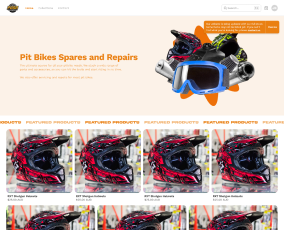
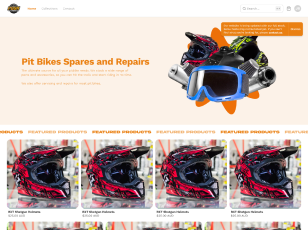
add: halftone effect on 'ProjectCard' image

diff --git a/src/components/project-card.tsx b/src/components/project-card.tsx
@@ -14,18 +14,24 @@ export function ProjectCard(props: ProjectCardProps) {
 			href={props.href}
 			rel="noreferrer"
 		>
-			<div className="relative min-h-[230px] w-full min-w-[284px] overflow-hidden rounded-[10px]">
+			<div className="relative w-full overflow-hidden rounded-lg">
 				<span className="fade-overlay">
-					<Image
-						className="rendering-pixelated w-full object-fill transition-all duration-200 ease-in-out [filter:grayscale(1)] group-hover:[filter:grayscale(0)]"
-						src={props.src}
-						alt={props.title}
-						width={284}
-						height={230}
-					/>
+					<span className="halftone">
+						<Image
+							className="rendering-pixelated w-full object-fill transition-all duration-200 ease-in-out [filter:grayscale(1)] group-hover:[filter:grayscale(0)]"
+							src={props.src}
+							alt={props.title}
+							width={308}
+							height={230}
+						/>
+					</span>
 				</span>
 
-				<div className="absolute bottom-0 left-0 z-10 w-full p-4 duration-200 ease-in-out will-change-transform group-hover:-translate-y-[2px]">
+				<div
+					className={
+						'absolute bottom-0 left-0 z-10 w-full p-4 duration-200 ease-in-out will-change-transform group-hover:-translate-y-[2px]'
+					}
+				>
 					<p className="text-sm font-medium leading-6 text-neutral-50">{props.title}</p>
 					<p className="text-sm font-normal leading-[9px] text-neutral-300">{props.description}</p>
 				</div>

diff --git a/src/app/page.tsx b/src/app/page.tsx
@@ -60,7 +60,7 @@ export default function Home() {
 							<Section.Title>projects</Section.Title>
 							<Section.Link href="/projects">see more -&gt;</Section.Link>
 						</Section.Header>
-						<Section.Body className="grid grid-cols-1 gap-4 sm:grid-cols-2">
+						<Section.Body className="grid grid-cols-1 gap-2 sm:grid-cols-2">
 							<ProjectCard
 								src="/images/projects/pbsrmoto.png"
 								title="Pit Bikes Spares &amp; Repairs"
@@ -68,15 +68,15 @@ export default function Home() {
 								href="/projects/pbsrmoto"
 							/>
 							<ProjectCard
-								src="/images/projects/pbsrmoto.png"
-								title="Pit Bikes Spares &amp; Repairs"
-								description="ecommerce store"
-								href="/projects/pbsrmoto"
+								src="/images/projects/spotify-widget.png"
+								title="Spotify Widget"
+								description="lightweight widget for controlling Spotify"
+								href="/projects/spotify-widget"
 							/>
 							<ProjectCard
-								src="/images/projects/pbsrmoto.png"
-								title="Pit Bikes Spares &amp; Repairs"
-								description="ecommerce store"
+								src="/images/projects/timeseed.png"
+								title="TimeSeed"
+								description="tiny pomodoro app"
 								href="/projects/pbsrmoto"
 							/>
 							<ProjectCard

diff --git a/src/app/globals.css b/src/app/globals.css
@@ -52,6 +52,26 @@ body {
 		image-rendering: pixelated;
 	}
 
+	.halftone {
+		filter: contrast(1.5);
+	}
+
+	.halftone::after {
+		--color: #4a4a4a;
+		background-image: linear-gradient(45deg, var(--color) 25%, transparent 25%),
+			linear-gradient(-45deg, var(--color) 25%, transparent 25%),
+			linear-gradient(45deg, transparent 75%, var(--color) 75%),
+			linear-gradient(-45deg, transparent 75%, var(--color) 75%);
+		background-size: 2px 2px;
+		background-position:
+			0 0,
+			1px 0,
+			1px -1px,
+			0px 1px;
+		content: '';
+		@apply absolute inset-0 -rotate-12 scale-[1.5] opacity-50;
+	}
+
 	.fade-overlay::after {
 		content: '';
 		background: linear-gradient(180deg, rgba(0, 0, 0, 0) 40%, rgba(0, 0, 0, 0.9) 140%);
